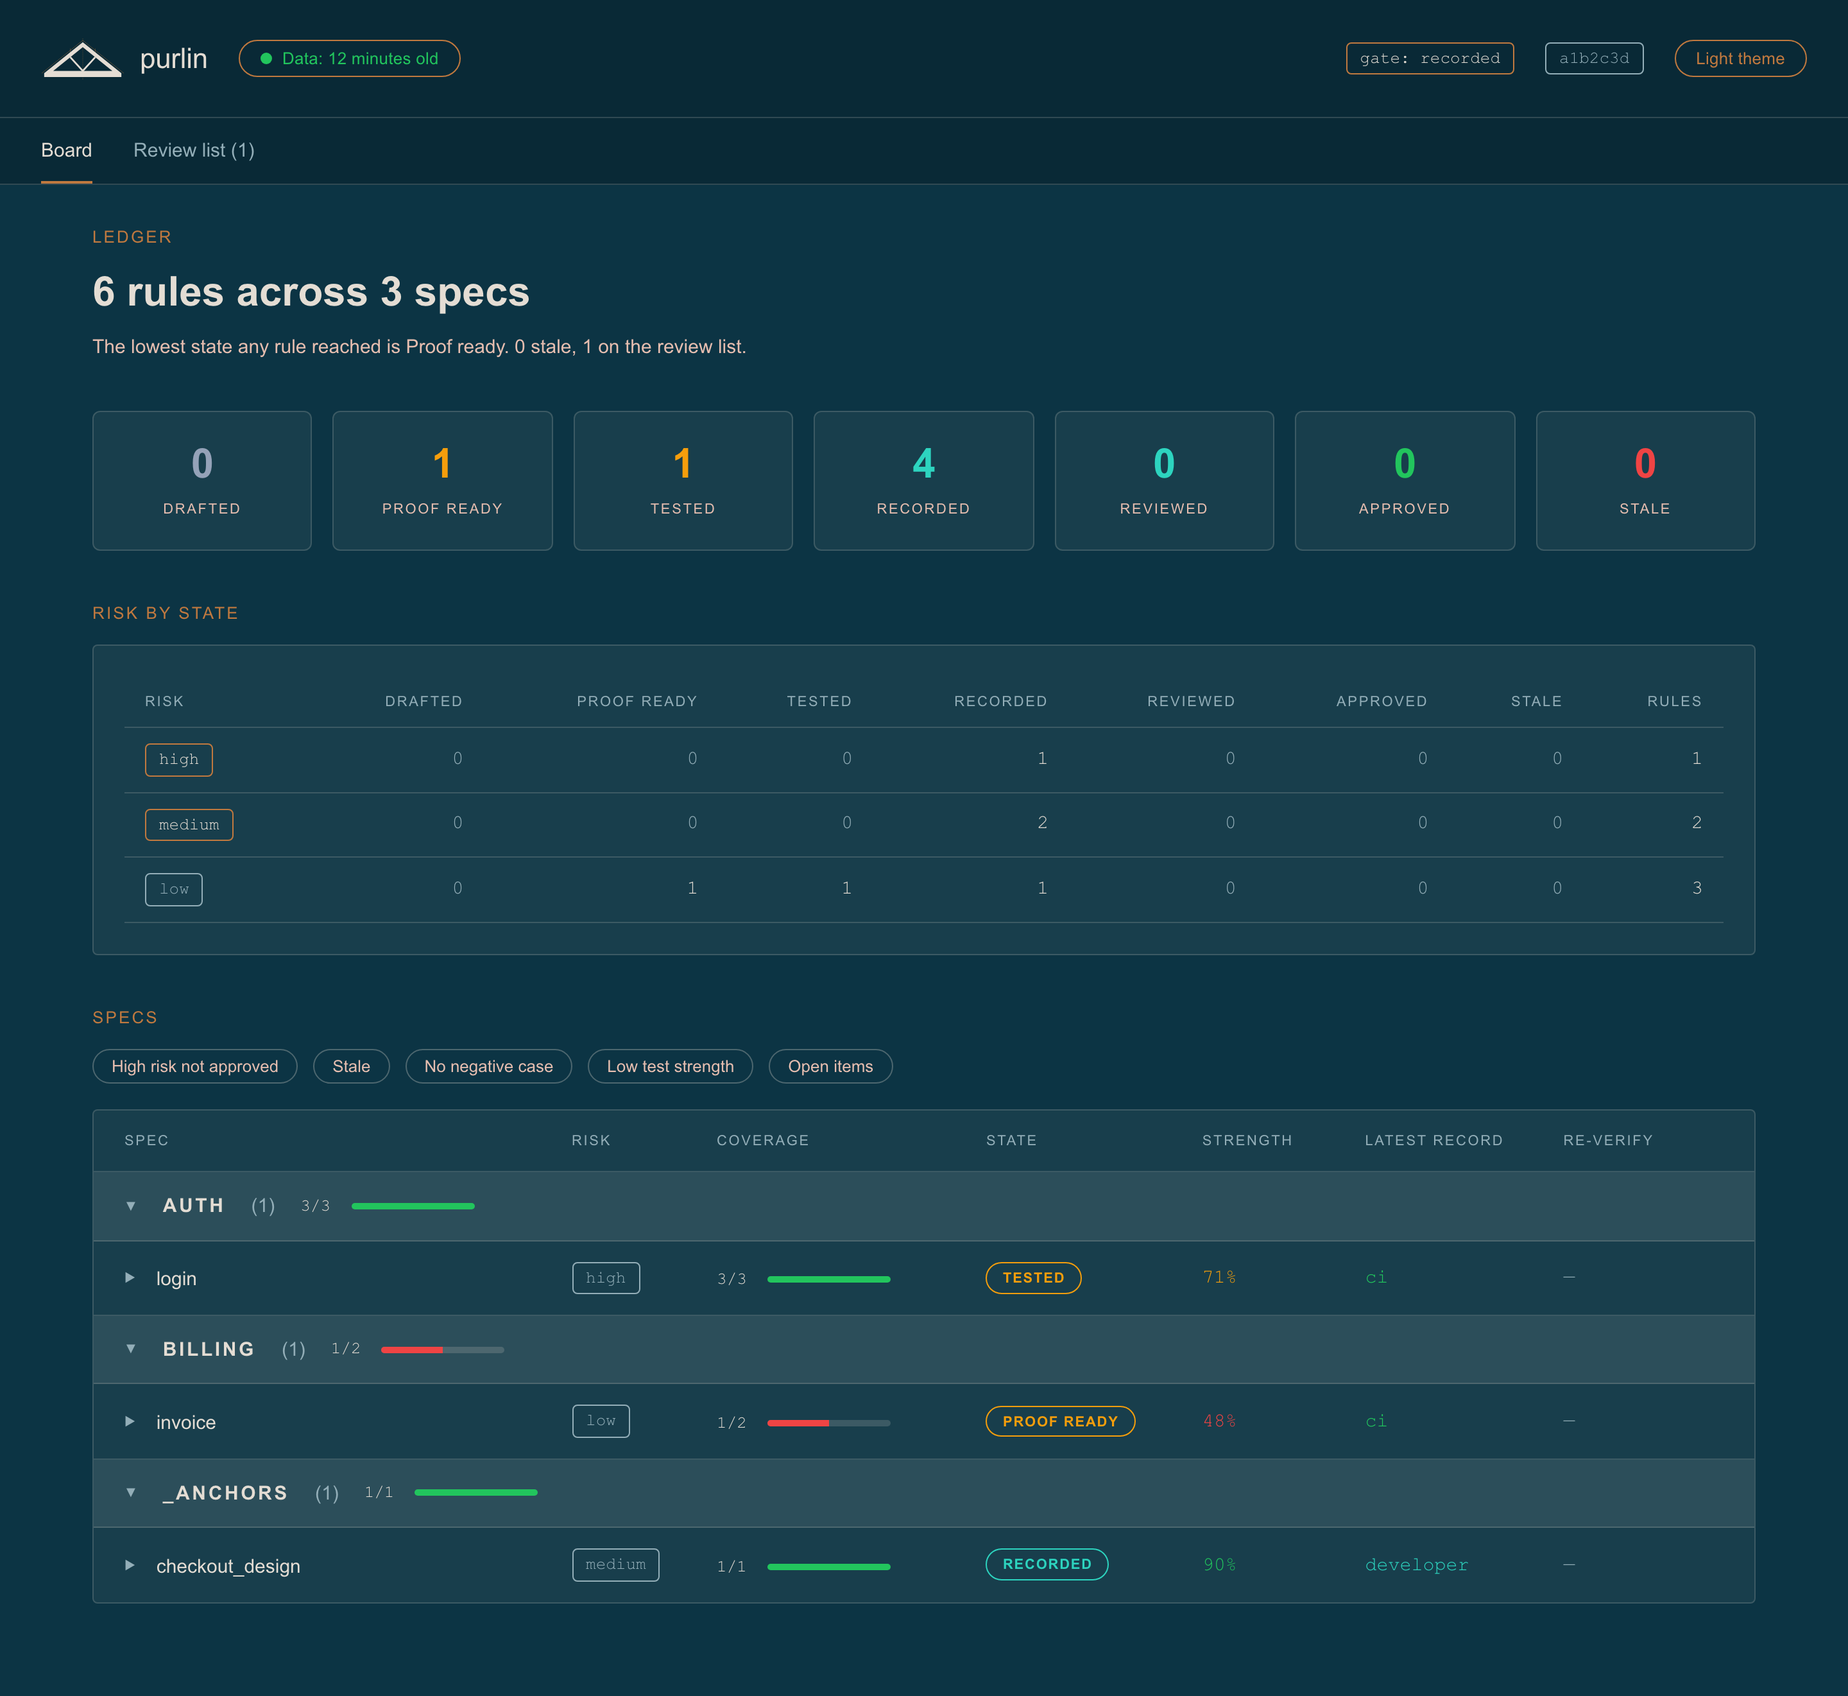
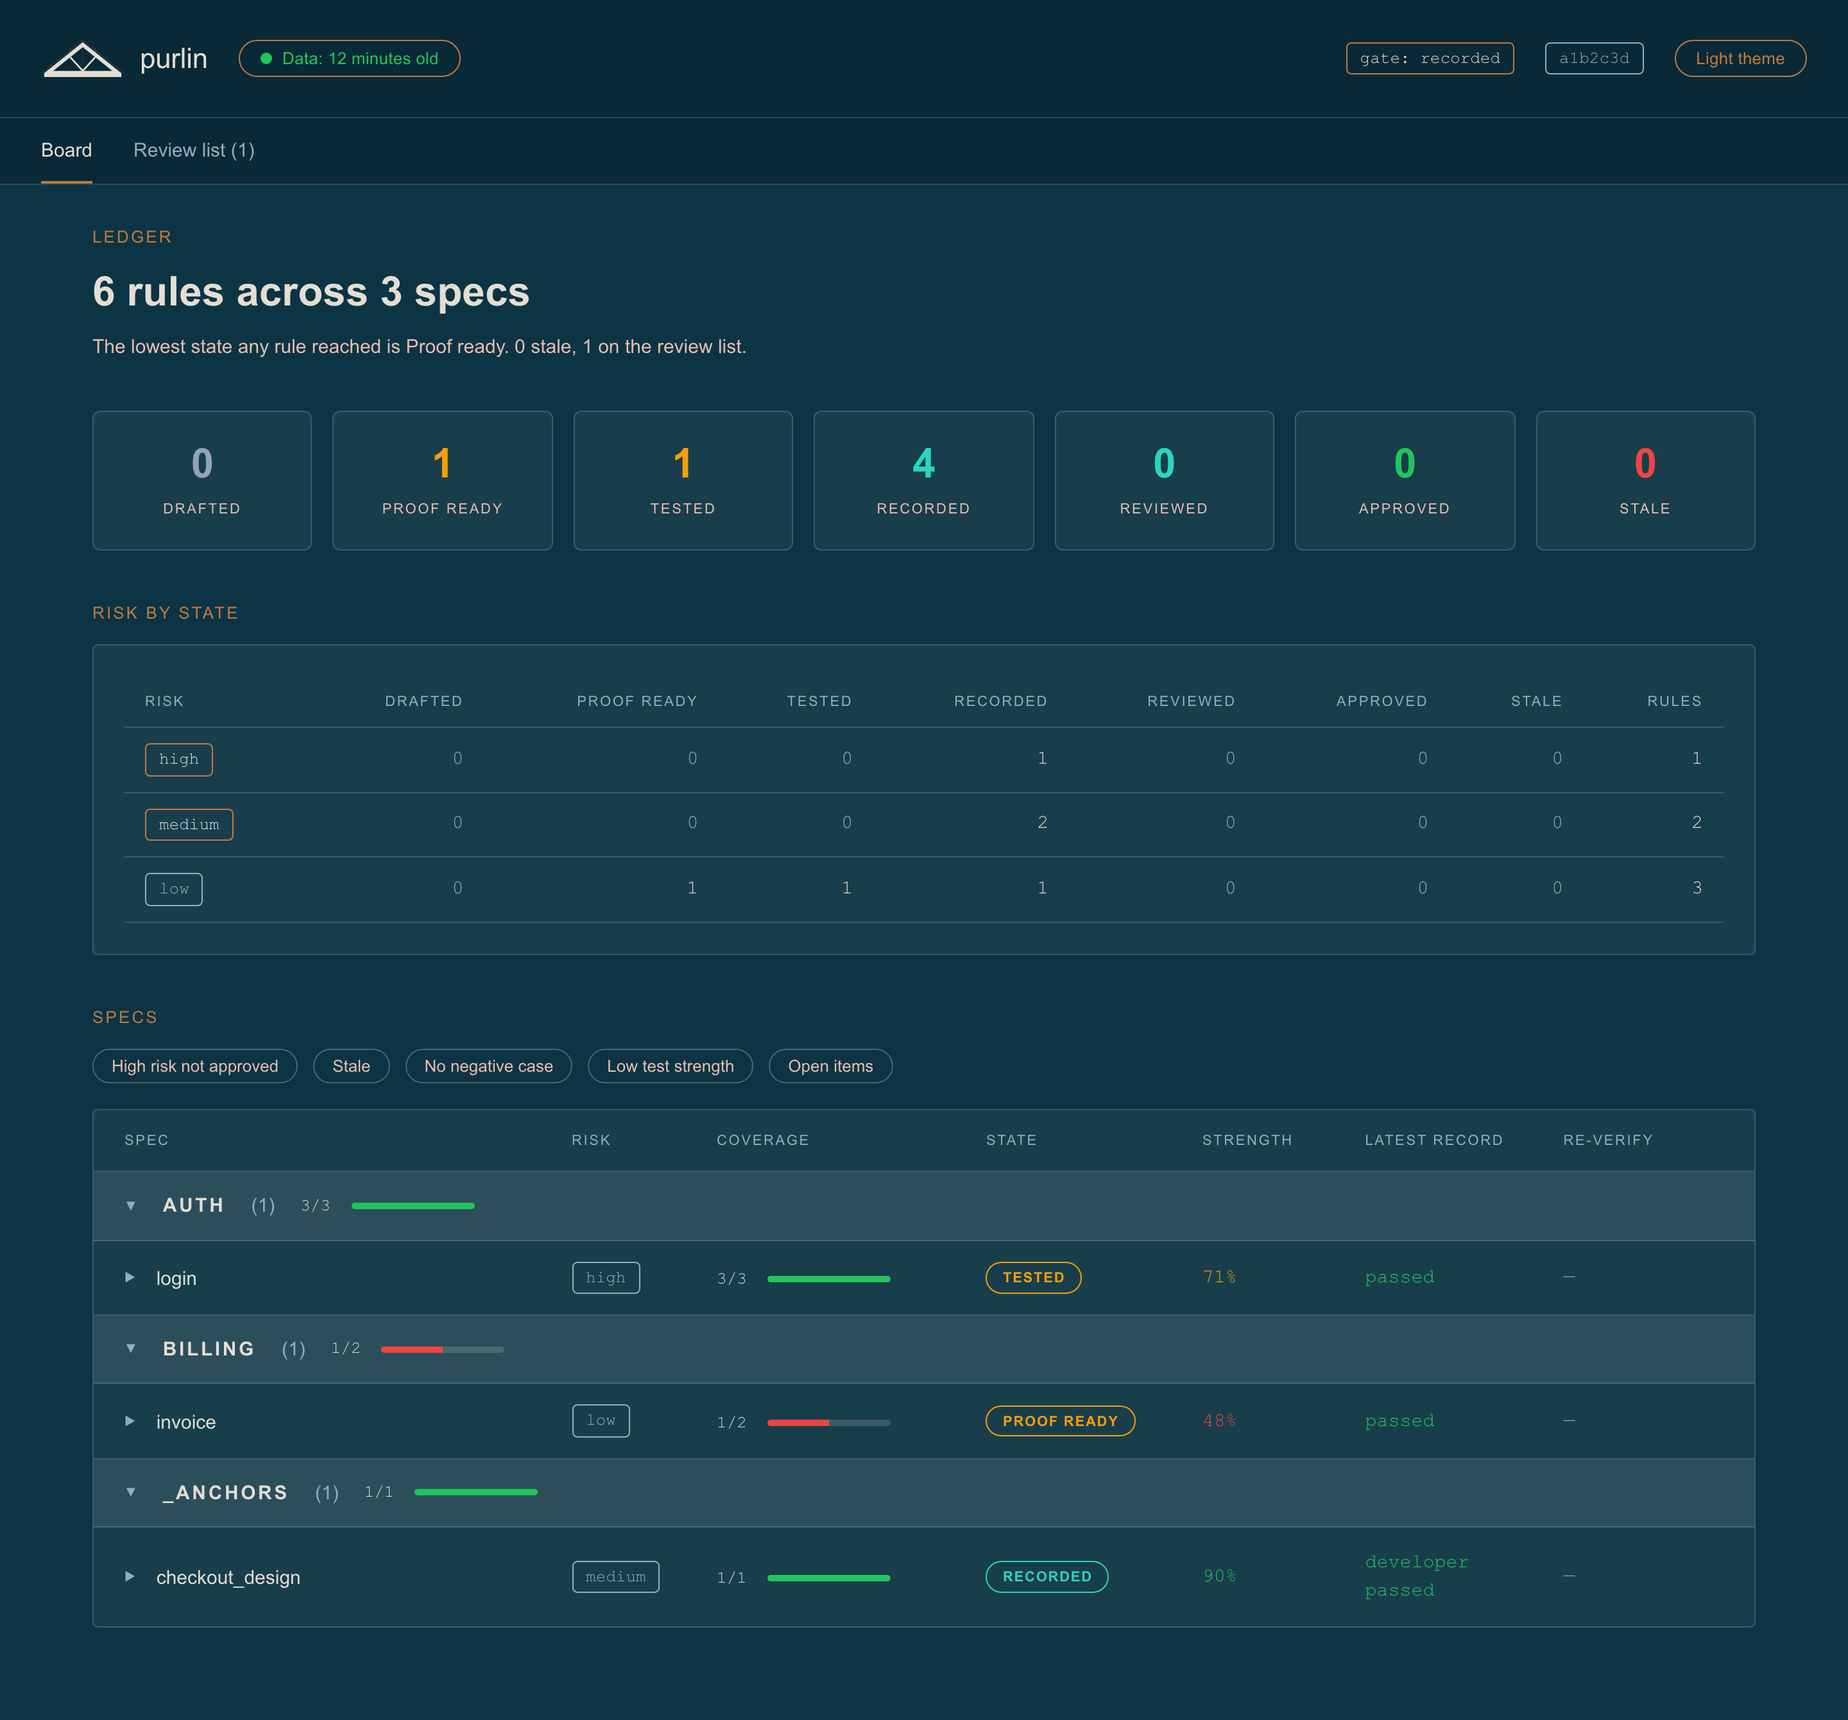
feat(purlin_report): the latest record column says what each system found
The column showed the single newest record per spec, so every row on this
repository's own board read `ci linux`: the Linux job finished last, and a
record's existence is not its result. The Linux run had failed nearly every
proof while the Windows run passed, and the column could not tell the reader.

It now carries one entry per operating system that recorded, reading `passed`
or `failed` in that result's tone, the label only where it is not `ci`, the
entries joined by a middle dot, and the timestamp and path on the tooltip.
The rule screen's latest record line reads the same, each entry beside its
link to the git host. The fixtures record what each system found, and the
regulated invoice records on two of them.

Claude-Session: https://claude.ai/code/session_01PA1RaoK77G1rNdVdQbavg6

diff --git a/scripts/report/purlin-report.html b/scripts/report/purlin-report.html
@@ -439,7 +439,7 @@ function featureRow(feature, columns) {
   cells.push(pill(rollup.lowest_state || 'Drafted'));
   if (hasRecords()) {
     cells.push(strength(feature.test_strength));
-    cells.push(recordCell(feature.latest_record));
+    cells.push(recordCell(feature));
     cells.push(rollup.re_verify_pending
       ? '<span class="mono" style="color:var(--state-warn)">'
         + rollup.re_verify_pending + ' pending</span>'
@@ -654,10 +654,7 @@ function renderRule() {
   }
   if (feature.test_strength != null || record) {
     rows.push(['Test strength', strength(feature.test_strength)]);
-    rows.push(['Latest record', record
-      ? recordCell(record) + ' '
-        + hostLink(record.path, record.timestamp || record.path)
-      : '<span class="mono muted">none</span>']);
+    rows.push(['Latest record', recordLine(feature)]);
   }
   var approvals = approvalsFor(feature, rule);
   if (approvals.length) {
@@ -815,14 +812,36 @@ function strength(value) {
   return '<span class="mono" style="color:var(--state-' + hue + ')">'
     + Math.round(value) + '%</span>';
 }
-function recordCell(record) {
-  if (!record) { return '<span class="mono muted">none</span>'; }
+function recordsFor(feature) {
+  var byOs = (DATA.records || {})[feature.name] || {};
+  return Object.keys(byOs).sort().map(function (key) { return byOs[key]; });
+}
+function recordMark(record) {
+  var words = [];
   var label = record.label || 'local';
-  var hue = label === 'ci' ? 'pass' : label === 'developer' ? 'neutral'
-    : 'warn';
-  var text = label + (record.os ? ' ' + record.os : '');
-  return '<span class="mono" style="color:var(--state-' + hue + ')">'
-    + esc(text) + '</span>';
+  if (label !== 'ci') { words.push(label); }
+  if (record.os) { words.push(record.os); }
+  words.push(record.result === 'fail' ? 'failed' : 'passed');
+  return '<span class="mono" style="color:var(--state-'
+    + (record.result === 'fail' ? 'fail' : 'pass') + ')" title="'
+    + esc((record.timestamp || '') + ' · ' + (record.path || '')) + '">'
+    + esc(words.join(' ')) + '</span>';
+}
+function recordJoin(marks) {
+  return marks.join('<span class="muted"> · </span>');
+}
+function recordCell(feature) {
+  var records = recordsFor(feature);
+  if (!records.length) { return '<span class="mono muted">—</span>'; }
+  return recordJoin(records.map(recordMark));
+}
+function recordLine(feature) {
+  var records = recordsFor(feature);
+  if (!records.length) { return '<span class="mono muted">none</span>'; }
+  return recordJoin(records.map(function (record) {
+    return recordMark(record) + ' '
+      + hostLink(record.path, record.timestamp || record.path);
+  }));
 }
 function hostLink(path, text) {
   var base = webRemote();

diff --git a/scripts/report/src/app.js b/scripts/report/src/app.js
@@ -87,14 +87,49 @@ function strength(value) {
     + Math.round(value) + '%</span>';
 }
 
-function recordCell(record) {
-  if (!record) { return '<span class="mono muted">none</span>'; }
+/* Every record a spec has, one per operating system, newest of each. The
+   payload keys them by operating system and gives `""` to a record written
+   without one. */
+function recordsFor(feature) {
+  var byOs = (DATA.records || {})[feature.name] || {};
+  return Object.keys(byOs).sort().map(function (key) { return byOs[key]; });
+}
+
+/* What one record found, in the result's tone. A record's existence is not
+   its result: showing the newest alone read the same whether the run passed
+   or failed every proof in it, so each operating system says its own. The
+   label is named only where it is not `ci`, CI being the expected writer. */
+function recordMark(record) {
+  var words = [];
   var label = record.label || 'local';
-  var hue = label === 'ci' ? 'pass' : label === 'developer' ? 'neutral'
-    : 'warn';
-  var text = label + (record.os ? ' ' + record.os : '');
-  return '<span class="mono" style="color:var(--state-' + hue + ')">'
-    + esc(text) + '</span>';
+  if (label !== 'ci') { words.push(label); }
+  if (record.os) { words.push(record.os); }
+  words.push(record.result === 'fail' ? 'failed' : 'passed');
+  return '<span class="mono" style="color:var(--state-'
+    + (record.result === 'fail' ? 'fail' : 'pass') + ')" title="'
+    + esc((record.timestamp || '') + ' · ' + (record.path || '')) + '">'
+    + esc(words.join(' ')) + '</span>';
+}
+
+function recordJoin(marks) {
+  return marks.join('<span class="muted"> · </span>');
+}
+
+function recordCell(feature) {
+  var records = recordsFor(feature);
+  if (!records.length) { return '<span class="mono muted">—</span>'; }
+  return recordJoin(records.map(recordMark));
+}
+
+/* The same entries on the rule screen, each beside a link to the file it
+   names, so a record stays addressable on the git host. */
+function recordLine(feature) {
+  var records = recordsFor(feature);
+  if (!records.length) { return '<span class="mono muted">none</span>'; }
+  return recordJoin(records.map(function (record) {
+    return recordMark(record) + ' '
+      + hostLink(record.path, record.timestamp || record.path);
+  }));
 }
 
 /* A link to the file on the git host, when the payload names a remote this

diff --git a/scripts/report/src/rule.js b/scripts/report/src/rule.js
@@ -172,10 +172,7 @@ function renderRule() {
   }
   if (feature.test_strength != null || record) {
     rows.push(['Test strength', strength(feature.test_strength)]);
-    rows.push(['Latest record', record
-      ? recordCell(record) + ' '
-        + hostLink(record.path, record.timestamp || record.path)
-      : '<span class="mono muted">none</span>']);
+    rows.push(['Latest record', recordLine(feature)]);
   }
   var approvals = approvalsFor(feature, rule);
   if (approvals.length) {

diff --git a/scripts/report/src/board.js b/scripts/report/src/board.js
@@ -86,7 +86,7 @@ function featureRow(feature, columns) {
   cells.push(pill(rollup.lowest_state || 'Drafted'));
   if (hasRecords()) {
     cells.push(strength(feature.test_strength));
-    cells.push(recordCell(feature.latest_record));
+    cells.push(recordCell(feature));
     cells.push(rollup.re_verify_pending
       ? '<span class="mono" style="color:var(--state-warn)">'
         + rollup.re_verify_pending + ' pending</span>'

diff --git a/dev/test_purlin_report.py b/dev/test_purlin_report.py
@@ -134,6 +134,34 @@ def review_cells(page):
         '.map(c => c.textContent.trim()))')
 
 
+# The latest record cell of every spec row, found by the heading rather than
+# by a fixed position, so the columns a payload does not carry cannot shift
+# the read onto another cell.
+RECORD_CELLS = """els => {
+  const head = Array.from(document.querySelectorAll('.th > div'))
+    .map(d => d.textContent.trim().toLowerCase());
+  const at = head.indexOf('latest record');
+  return els.map(e => {
+    const cell = e.children[at];
+    return {
+      name: e.querySelector('.name .n').textContent.trim(),
+      text: cell.textContent.trim(),
+      marks: Array.from(cell.querySelectorAll('span[title]')).map(s => ({
+        words: s.textContent.trim(),
+        title: s.getAttribute('title'),
+        colour: getComputedStyle(s).color
+      }))
+    };
+  });
+}"""
+
+
+def record_cells(page):
+    """The latest record cell of each spec row, keyed by the spec name."""
+    return {row['name']: row
+            for row in page.eval_on_selector_all('.tr', RECORD_CELLS)}
+
+
 # ---------------------------------------------------------------------------
 # The built file
 # ---------------------------------------------------------------------------
@@ -230,6 +258,57 @@ def test_columns_appear_only_where_their_artifacts_do(browser, tmp_path):
     reg = open_board(browser, tmp_path / 'reg', payload_named('regulated'))
     assert 'APPROVALS' in reg.inner_text('.th')
     reg.close()
+
+
+@pytest.mark.proof("purlin_report", "PROOF-32", "RULE-31", tier="e2e")
+def test_the_record_column_says_what_each_operating_system_found(browser,
+                                                                 tmp_path):
+    """A record's existence is not its result, and two jobs disagree.
+
+    The newest record alone read `ci linux` whether that run passed every
+    proof or failed every one of them, and said nothing about the Windows job
+    that passed beside it.
+    """
+    payload = payload_named('regulated')
+    payload['records']['login'] = {
+        'linux': {
+            'commit': 'a1b2c3d', 'label': 'ci', 'os': 'linux',
+            'path': '.purlin/records/login/'
+                    '20260912T091402Z-a1b2c3d-ci-linux.json',
+            'result': 'fail', 'test_strength': 86,
+            'timestamp': '2026-09-12T09:14:02Z'},
+        'windows': {
+            'commit': 'a1b2c3d', 'label': 'ci', 'os': 'windows',
+            'path': '.purlin/records/login/'
+                    '20260912T090100Z-a1b2c3d-ci-windows.json',
+            'result': 'pass', 'test_strength': 86,
+            'timestamp': '2026-09-12T09:01:00Z'},
+    }
+    del payload['records']['checkout_design']
+    page = open_board(browser, tmp_path / 'reg', payload)
+    cells = record_cells(page)
+    assert cells['login']['text'] == u'linux failed · windows passed'
+    assert cells['invoice']['text'] == u'linux passed · macos passed'
+    assert cells['checkout_design']['text'] == u'—'
+
+    failed, passed = cells['login']['marks']
+    assert failed['colour'] == page.evaluate(RESOLVE_TOKEN, '--state-fail')
+    assert passed['colour'] == page.evaluate(RESOLVE_TOKEN, '--state-pass')
+    assert failed['title'] == (
+        '2026-09-12T09:14:02Z · .purlin/records/login/'
+        '20260912T091402Z-a1b2c3d-ci-linux.json')
+
+    page.click('[data-act="feature"][data-feature="login"]')
+    page.click('.rule[data-rule="RULE-1"]')
+    body = page.inner_text('.wrap')
+    assert 'linux failed' in body and 'windows passed' in body
+    page.close()
+
+    team = open_board(browser, tmp_path / 'team', payload_named('team'))
+    cells = record_cells(team)
+    assert cells['login']['text'] == 'passed'
+    assert cells['checkout_design']['text'] == 'developer passed'
+    team.close()
 
 
 @pytest.mark.parametrize('process', PROCESSES)

diff --git a/specs/dashboard/purlin_report.md b/specs/dashboard/purlin_report.md
@@ -43,6 +43,7 @@
 - RULE-28: The freshness line in the top bar is a button carrying that same age text, styled as the theme button is, and pressing it reloads the page [risk: low] [origin: eng]
 - RULE-29: The age in the top bar recomputes every 60 seconds from the stamp the payload already carries, reading the data file zero further times [risk: low] [origin: eng]
 - RULE-30: A review row states a reason only where it says more than the risk group already does, reading a stale approval as `stale`, a test strength under the minimum as `strength <n>% under <m>%`, a free check as the sentence the checks write, code that moved under an approval as `re-verify pending`, and an operating system with no record as `<os>: no record yet`; a rule whose only reason is its risk states none, and no row repeats its group's risk as a tag [risk: low] [origin: eng]
+- RULE-31: The latest record column and the rule screen's latest record line carry one entry per operating system that has a record for that spec, reading the label where it is not `ci`, the operating system where the record names one, and `passed` or `failed` in that result's tone, joined by ` · `, each carrying its timestamp and its path as a tooltip; a spec with no record reads `—` [risk: low] [origin: eng]
 
 ## Proof
 
@@ -77,3 +78,4 @@
 - PROOF-29 (RULE-29): Open the regulated fixture stamped 30 seconds before a fixed page clock; verify the top bar reads `Data: less than a minute old`, advance that clock by 90000 milliseconds, and verify the top bar reads `Data: 2 minutes old`, with zero reads of the data file in between @e2e
 - PROOF-30 (RULE-12): Run the build and open the board: verify the text `data-surface` appears zero times in the page, that the root element carries no `data-surface` attribute, and that the body's computed ground is the colour `--purlin-navy-800` resolves to @e2e
 - PROOF-31 (RULE-30): Open the regulated fixture and open the review list; verify the reason cell of the high-risk `RULE-1`, whose only reason is its risk, is empty and that zero risk tags are on screen; verify the row of the stale `RULE-2` reads `stale`, that `RULE-4` reads `windows: no record yet`, and that the invoice row reads `strength 64% under 80%` beside the sentence `No proof of this rule names a rejection, an error or a boundary.` @e2e
+- PROOF-32 (RULE-31): Open the board with the regulated fixture, whose invoice recorded on two operating systems, rewritten so login holds a failing `linux` record and a passing `windows` record and checkout_design holds none; verify the login cell reads `linux failed · windows passed` with the first entry in the colour `--state-fail` and the second in `--state-pass`, that the failing entry's tooltip names its timestamp and its path, that the invoice cell reads `linux passed · macos passed`, that the checkout_design cell reads `—`, and that login `RULE-1` shows the same two entries; open the team fixture and verify its login cell reads `passed` and its checkout_design cell, written by a person, reads `developer passed` @e2e

diff --git a/docs/dashboard.md b/docs/dashboard.md
@@ -46,8 +46,11 @@ exist.
 ![The Board at the recorded gate, with the risk grid and the strength, latest record and re-verify columns](images/dashboard-team.png)
 
 At `recorded` the same board has more in it, because more exists to show: a risk-by-state grid,
-and the strength, latest record and re-verify columns. The latest record column prints the
-record's label, `ci` or `developer`, which is the thing that decides whether it counts.
+and the strength, latest record and re-verify columns. The latest record column prints one entry
+per operating system that recorded, reading `passed` or `failed` in that result's colour, so a
+Linux job that failed and a Windows job that passed do not read the same. A record a person
+committed names its label, `developer` or `local`, beside the result; a record CI wrote names
+none, CI being the writer the gate expects. The timestamp and the file path are on the tooltip.
 
 ![The Board at the approved gate, with the approvals column, a stale rule, and two warnings above the ledger](images/dashboard-regulated.png)
 
